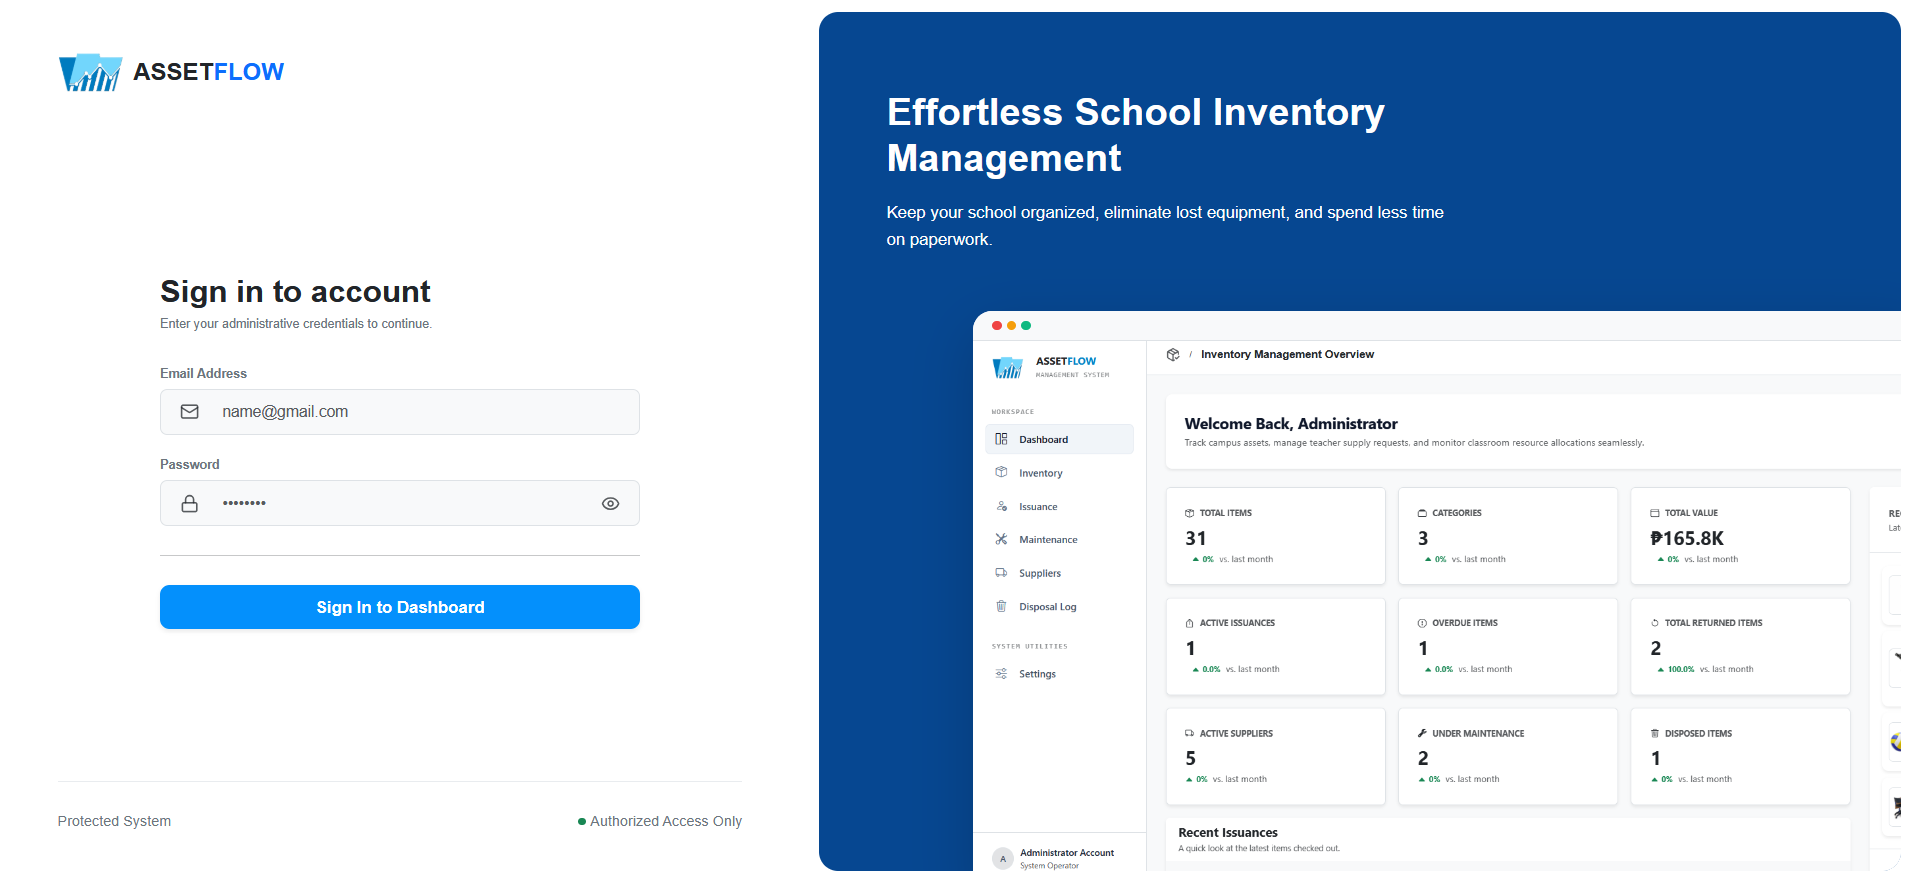
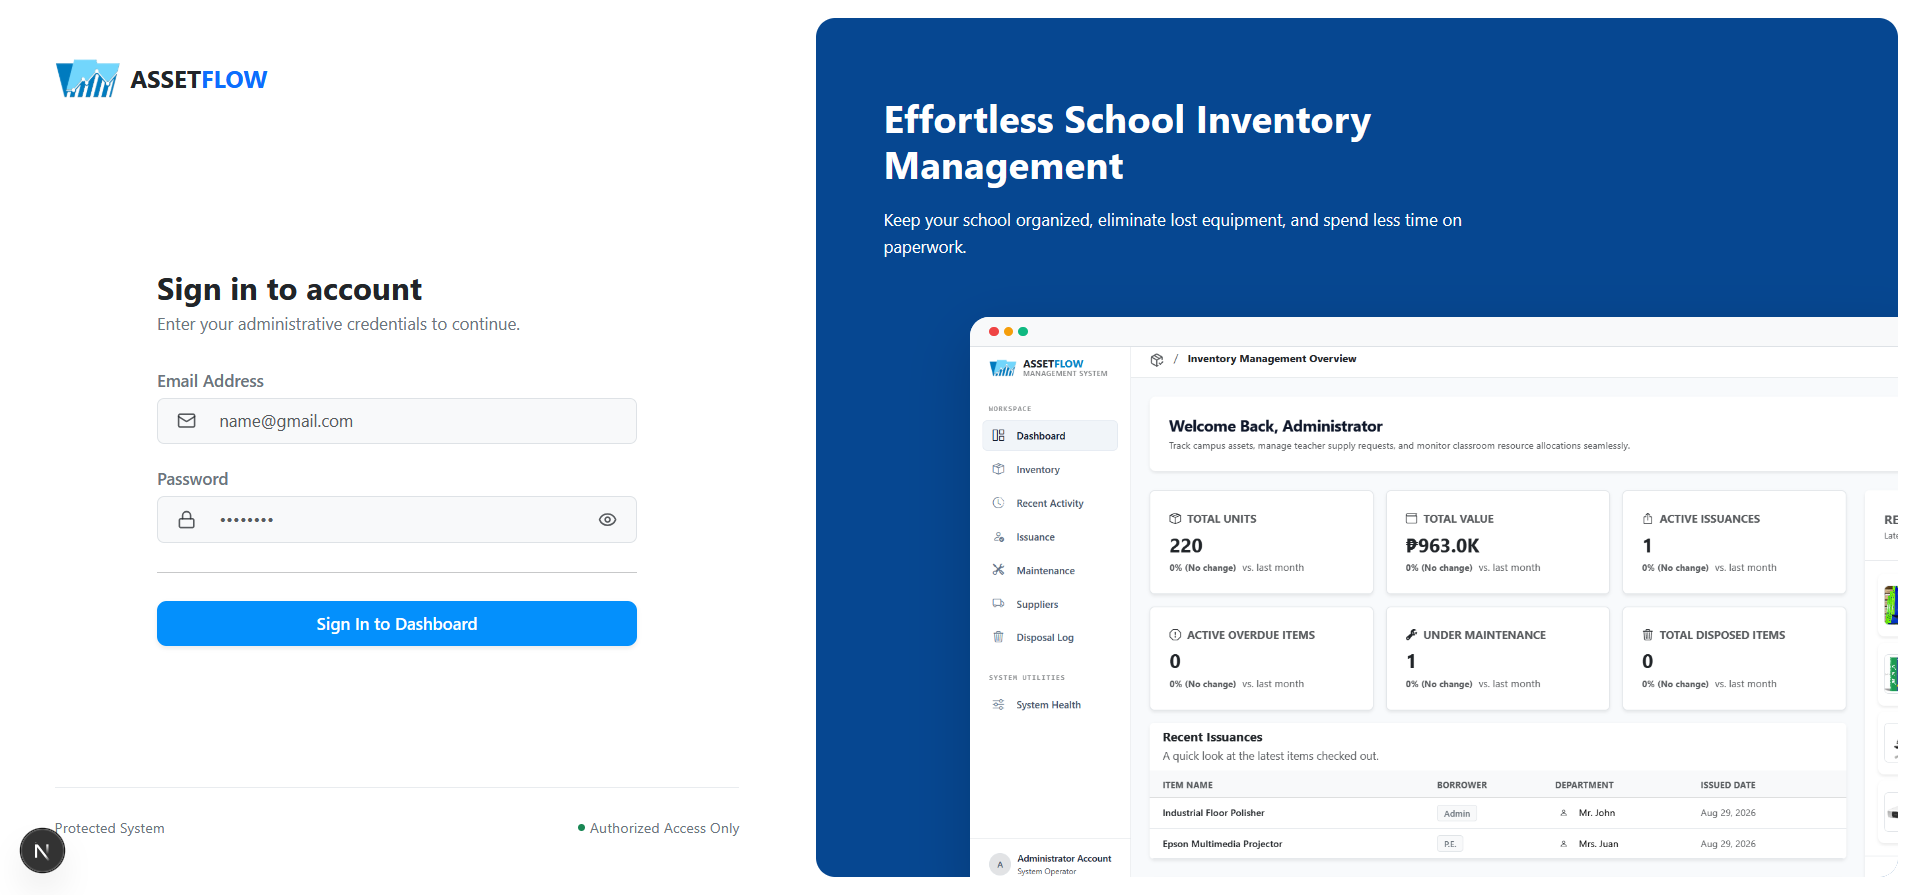
update

diff --git a/src/pages/AllProjects.jsx b/src/pages/AllProjects.jsx
@@ -53,11 +53,11 @@ export default function AllProjects() {
               <div className="row g-4 align-items-center">
                 
                 <div className="col-lg-5">
-                  <div className="bg-secondary rounded-0 overflow-hidden position-relative" style={{ height: '260px' }}>
+                  <div className="bg-secondary rounded-0 overflow-hidden position-relative">
                     <motion.img
                       src={project.image}
                       alt={project.title}
-                      className="w-100 h-100 object-fit-cover"
+                      className="w-100 h-100 object-fit-contain"
                       whileHover={{ scale: 1.05 }}
                       transition={{ duration: 0.4, ease: 'easeOut' }}
                     />
@@ -76,7 +76,7 @@ export default function AllProjects() {
                       {project.description}
                     </p>
 
-                    <p className={`small mb-3 ${isDarkMode ? 'text-light opacity-75' : 'text-muted'}`}>
+                    <p className={`small mb-3 project-description ${isDarkMode ? 'text-light opacity-75' : 'text-muted'}`}>
                       {project.longDescription || 
                         "This is a comprehensive full-stack system designed to optimize operational workflows, track user activities, and deliver seamless responsive experiences."}
                     </p>
@@ -107,7 +107,7 @@ export default function AllProjects() {
                         rel="noopener noreferrer" 
                         className={`btn btn-sm rounded-0 px-4 ${isDarkMode ? 'btn-light text-dark' : 'btn-dark text-light'}`}
                       >
-                        Visit Site &rarr;
+                        Visit Demo Site &rarr;
                       </a>
                     ) : (
                       <button 

diff --git a/src/data/projects.js b/src/data/projects.js
@@ -38,7 +38,7 @@ export const projects = [
     image: ProjectImg4,
     description: 'Smart Asset & Inventory Tracking Platform for Schools',
     longDescription: 'An easy-to-use inventory management system designed for schools to seamlessly track classroom devices, sports equipment, and campus assets helping staff assign items, monitor repair statuses, and prevent lost equipment.',
-    liveLink: '',
+    liveLink: 'https://school-ims.vercel.app',
     techStack: ['Next JS', 'CSS5', 'Bootstrap', 'Supabase', 'PostgreSQL'],
   }
 ];

diff --git a/src/components/Hero-UI/Image.jsx b/src/components/Hero-UI/Image.jsx
@@ -1,7 +1,7 @@
 import { HiOutlineMail } from 'react-icons/hi';
 import { FaGithub, FaLinkedin } from 'react-icons/fa';
 import { motion } from 'framer-motion';
-import AvatarImg from '../../assets/images/profile1.webp';
+import AvatarImg from '../../assets/images/pfp.jpg';
 
 const containerVariants = {
   hidden: { opacity: 0 },

diff --git a/src/style/services.css b/src/style/services.css
@@ -77,7 +77,7 @@
     height: 45px;
 }
 
-.service-description, .text-footer {
+.service-description, .text-footer, .project-description {
     text-align: justify;
     text-justify: inter-word;
 }

diff --git a/src/style/about.css b/src/style/about.css
@@ -27,6 +27,7 @@
 .project-img{
      height: 200px;
 }
+
 @media (max-width: 767.98px) { 
     .about-content-area {
         font-size: 0.9rem;
